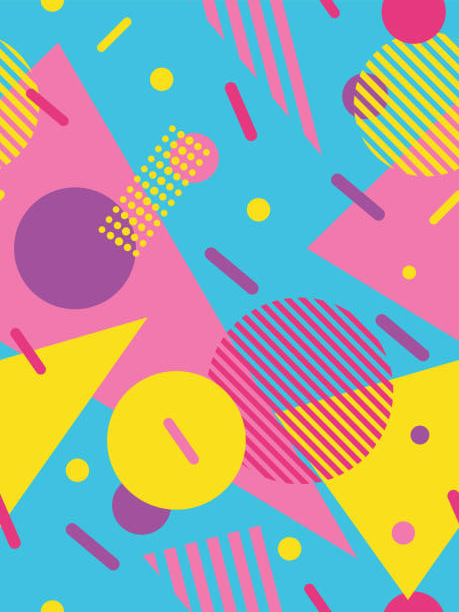
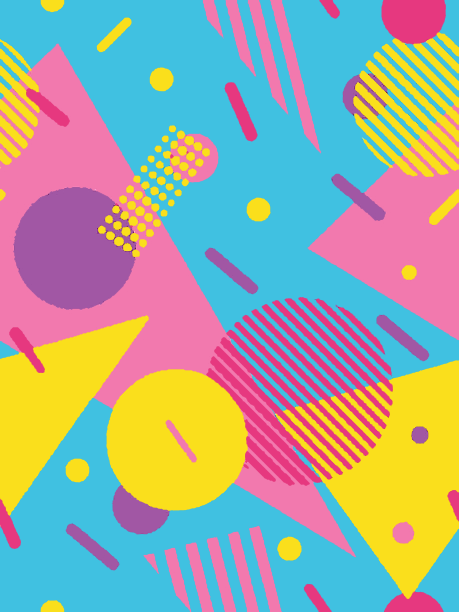
fixed background

diff --git a/src/app/card-display/card-display.component.ts b/src/app/card-display/card-display.component.ts
@@ -72,20 +72,37 @@ export class CardDisplayComponent {
   }
 
   getPopBackgroundImage(): string {
-    return this.getCurrentCard().unitStats!.pop > 0 ? 'url("/assets/trap1.png")' : 'url("/assets/trap3.png")';
+    return this.getCurrentCard().unitStats!.pop > 0 ? 'url("./assets/trap1.png")' : 'url("./assets/trap3.png")';
   }
   getCashBackgroundImage(): string {
-    return this.getCurrentCard().unitStats!.cash > 0 ? 'url("/assets/trap2.png")' : 'url("/assets/trap3.png")';
+    return this.getCurrentCard().unitStats!.cash > 0 ? 'url("./assets/trap2.png")' : 'url("./assets/trap3.png")';
   }
   getTroubleBackgroundImage(): string {
-    return this.getCurrentCard().unitStats!.trouble < 0 ? 'url("/assets/trap4.png")' : 'url("/assets/trap5.png")';
+    return this.getCurrentCard().unitStats!.trouble < 0 ? 'url("./assets/trap4.png")' : 'url("./assets/trap5.png")';
+  }
+
+  getCardBackground(): string{
+    if(this.getCurrentCard().unitStats!.star > 0){
+      return "url('./assets/eighty5.png')";
+    }
+    if(this.getCurrentCard().unitStats!.trouble != 0){
+      return "url('./assets/eighty3.png')";
+    }
+    return "url('./assets/eighty.png')"
   }
 
   getBackgroundImage(): string{
-    if(this.getCurrentCard().background != "cash" && this.getCurrentCard().background != "star" && this.getCurrentCard().background != "trouble"){
-      return  `url('/assets/normal_checker.png')`;
+    if(this.getCurrentCard().unitStats!.star > 0){
+      return "url('./assets/star_checker.png')";
     }
-    return `url('/assets/${this.getCurrentCard().background}_checker.png')`;
+    if(this.getCurrentCard().unitStats!.trouble != 0){
+      return "url('./assets/trouble_checker.png')";
+    }
+    return "url('./assets/normal_checker.png')"
+    /*if(this.getCurrentCard().background != "cash" && this.getCurrentCard().background != "star" && this.getCurrentCard().background != "trouble"){
+      return  `url('./assets/normal_checker.png')`;
+    }
+    return `url('./assets/${this.getCurrentCard().background}_checker.png')`;*/
   }
 
   getTotalText(): number{

diff --git a/src/app/card-editor/card-editor.component.ts b/src/app/card-editor/card-editor.component.ts
@@ -14,7 +14,6 @@ import { CommonModule, KeyValuePipe, NgForOf } from '@angular/common';
 export class CardEditorComponent {
   // text inputs
   @ViewChild('name', { static: true }) nameElement!: ElementRef;
-  @ViewChild('background', { static: true }) backgroundElement!: ElementRef;
   @ViewChild('url', { static: true }) urlElement!: ElementRef;
   @ViewChild('text', { static: true }) textElement!: ElementRef;
   @ViewChild('vp', { static: true }) vpElement!: ElementRef;
@@ -37,9 +36,6 @@ export class CardEditorComponent {
   // text inputs
   nameKey(event: any){
     this.getCard().name = event.target.value;
-  }
-  backgroundKey(event: any){
-    this.getCard().background = event.target.value;
   }
   urlKey(event: any){
     this.getCard().imageURL = event.target.value;
@@ -151,7 +147,6 @@ export class CardEditorComponent {
 
   loadCard(){
     this.nameElement.nativeElement.value = this.getCard().name;
-    this.backgroundElement.nativeElement.value = this.getCard().background;
     this.textElement.nativeElement.value = this.getCard().text;
     this.vpElement.nativeElement.value = this.getCard().vp == undefined ? "" : this.getCard().vp;
     this.textSizeElement.nativeElement.value = this.getCard().textSizeModifier;

diff --git a/src/app/card-editor/card-editor.component.html b/src/app/card-editor/card-editor.component.html
@@ -12,12 +12,6 @@
         </div>
     </div>-->
     <div class="editor-option">
-        <div class="option-title">Background:</div>
-        <div class="option-input">
-            <input (keyup)="backgroundKey($event)" #background>
-        </div>
-    </div>
-    <div class="editor-option">
         <div class="option-title">Image URL:</div>
         <div class="option-input" id="file-input">
             <input type="file" class="file-input-dialogue" (change)="onFileChanged($event)" #fileInput>

diff --git a/src/app/card-display/card-display.component.html b/src/app/card-display/card-display.component.html
@@ -1,4 +1,4 @@
-<div id="card-out" [style]="{width: cardWidth + 'px', height: cardHeight + 'px'}">
+<div id="card-out" [style]="{width: cardWidth + 'px', height: cardHeight + 'px'}" [style.backgroundImage]="getCardBackground()">
     <div id="card-in" [style]="{width: innerCardWidth + 'px', height: innerCardHeight + 'px' }">
         <div id="section-header" class="section" [style]="{fontSize: fontSizeLarge + 'px'}">
             <div id="header-name">{{getName()}}</div>

diff --git a/src/app/card-display/card-display.component.less b/src/app/card-display/card-display.component.less
@@ -3,7 +3,6 @@
     transform: translate(-50%,-50%);
     left: 50%;
     top: 50%;
-    background-image: url('/assets/eighty3.png');
     background-size: auto 120%;
     border-radius: 4%/3%;
     font-family: 'Zilla Slab', serif;

diff --git a/src/app/carddata.ts b/src/app/carddata.ts
@@ -23,7 +23,6 @@ export interface CardData{
     text: string,
     name: string,
     imageURL: string,
-    background: string,
     vp?: number,
     unitStats?: UnitStats,
     textSizeModifier: number

diff --git a/src/app/card-editor.service.ts b/src/app/card-editor.service.ts
@@ -29,7 +29,6 @@ export class CardEditorService {
     vp: 0,
     abilities: [],
     text: "",
-    background: "",
     name: "",
     imageURL: "",
     textSizeModifier: 1
